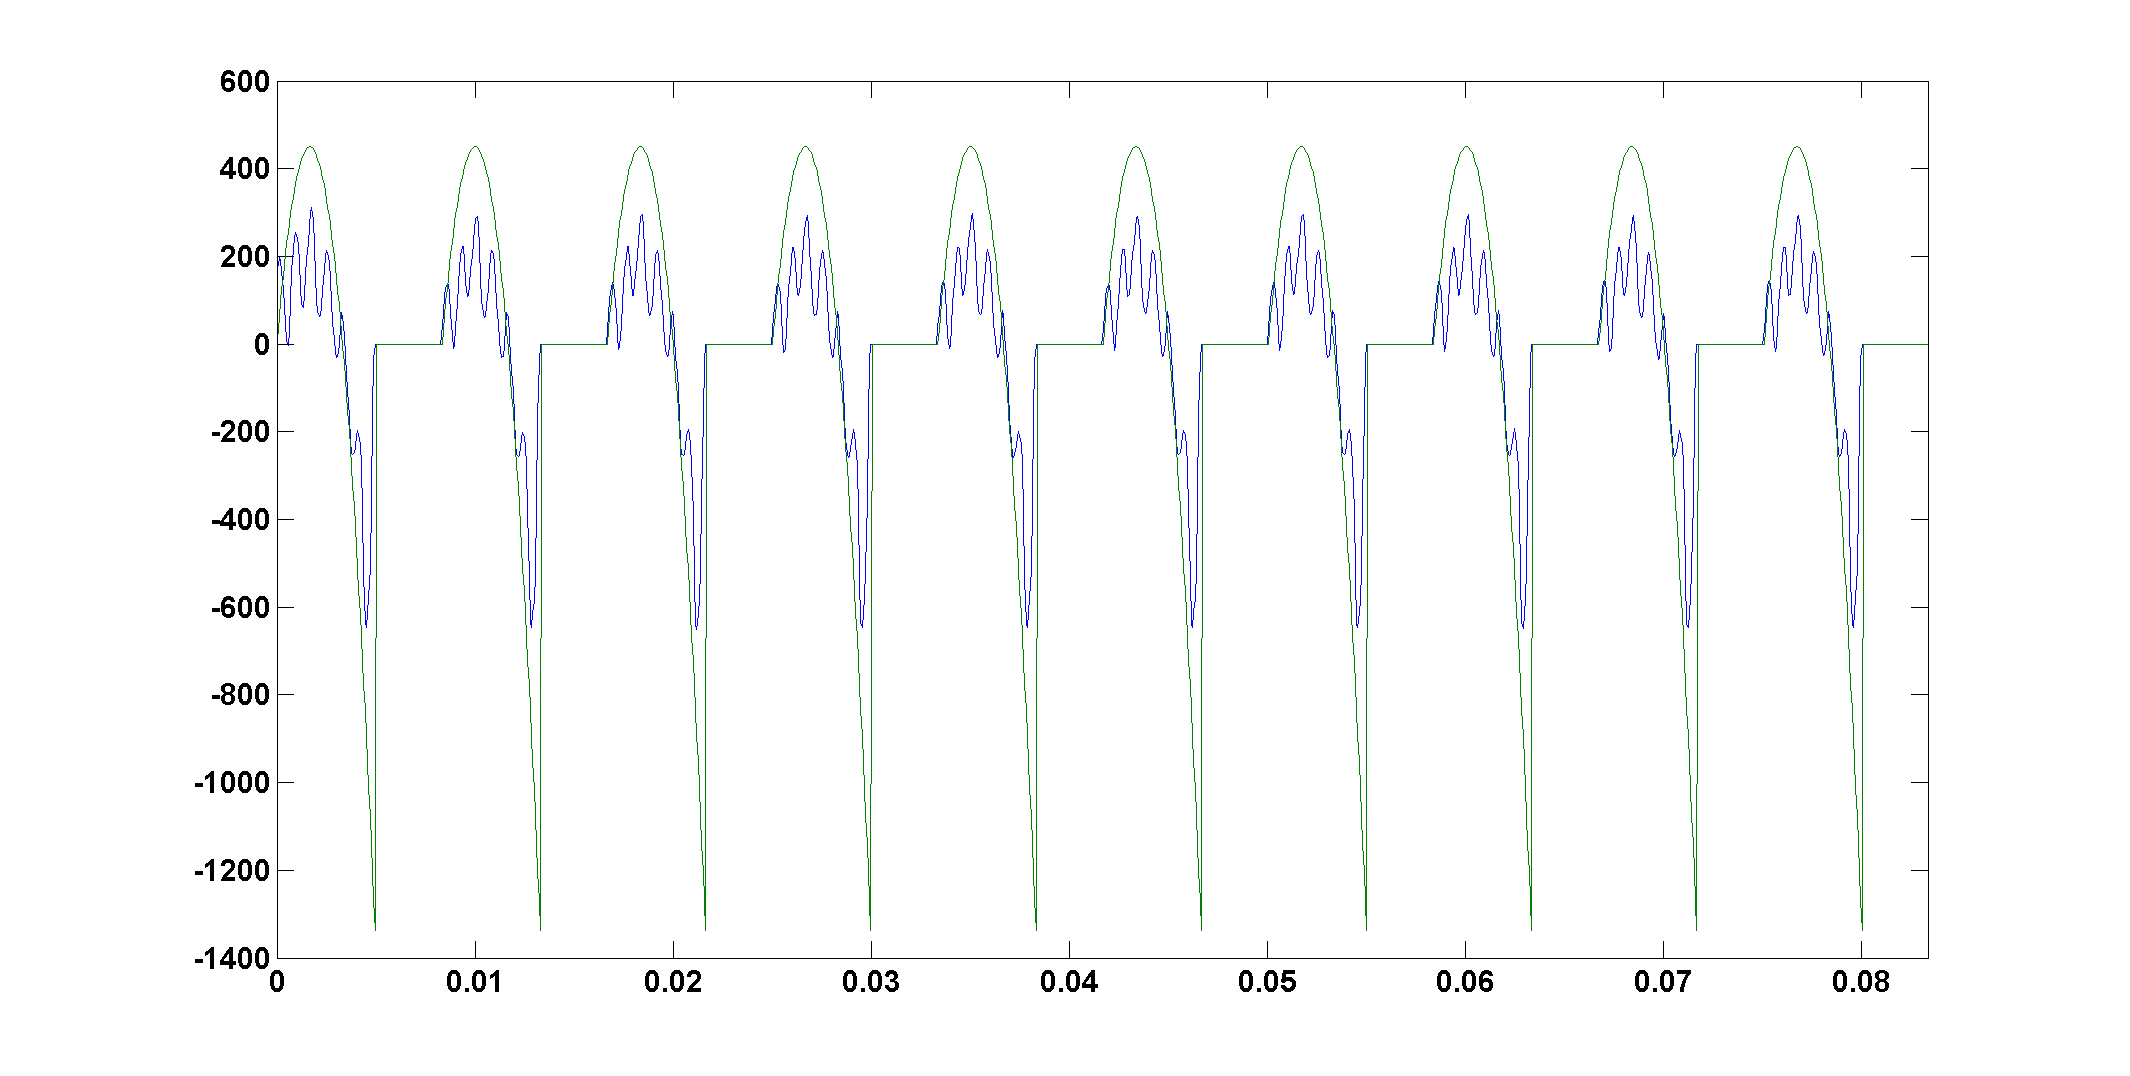
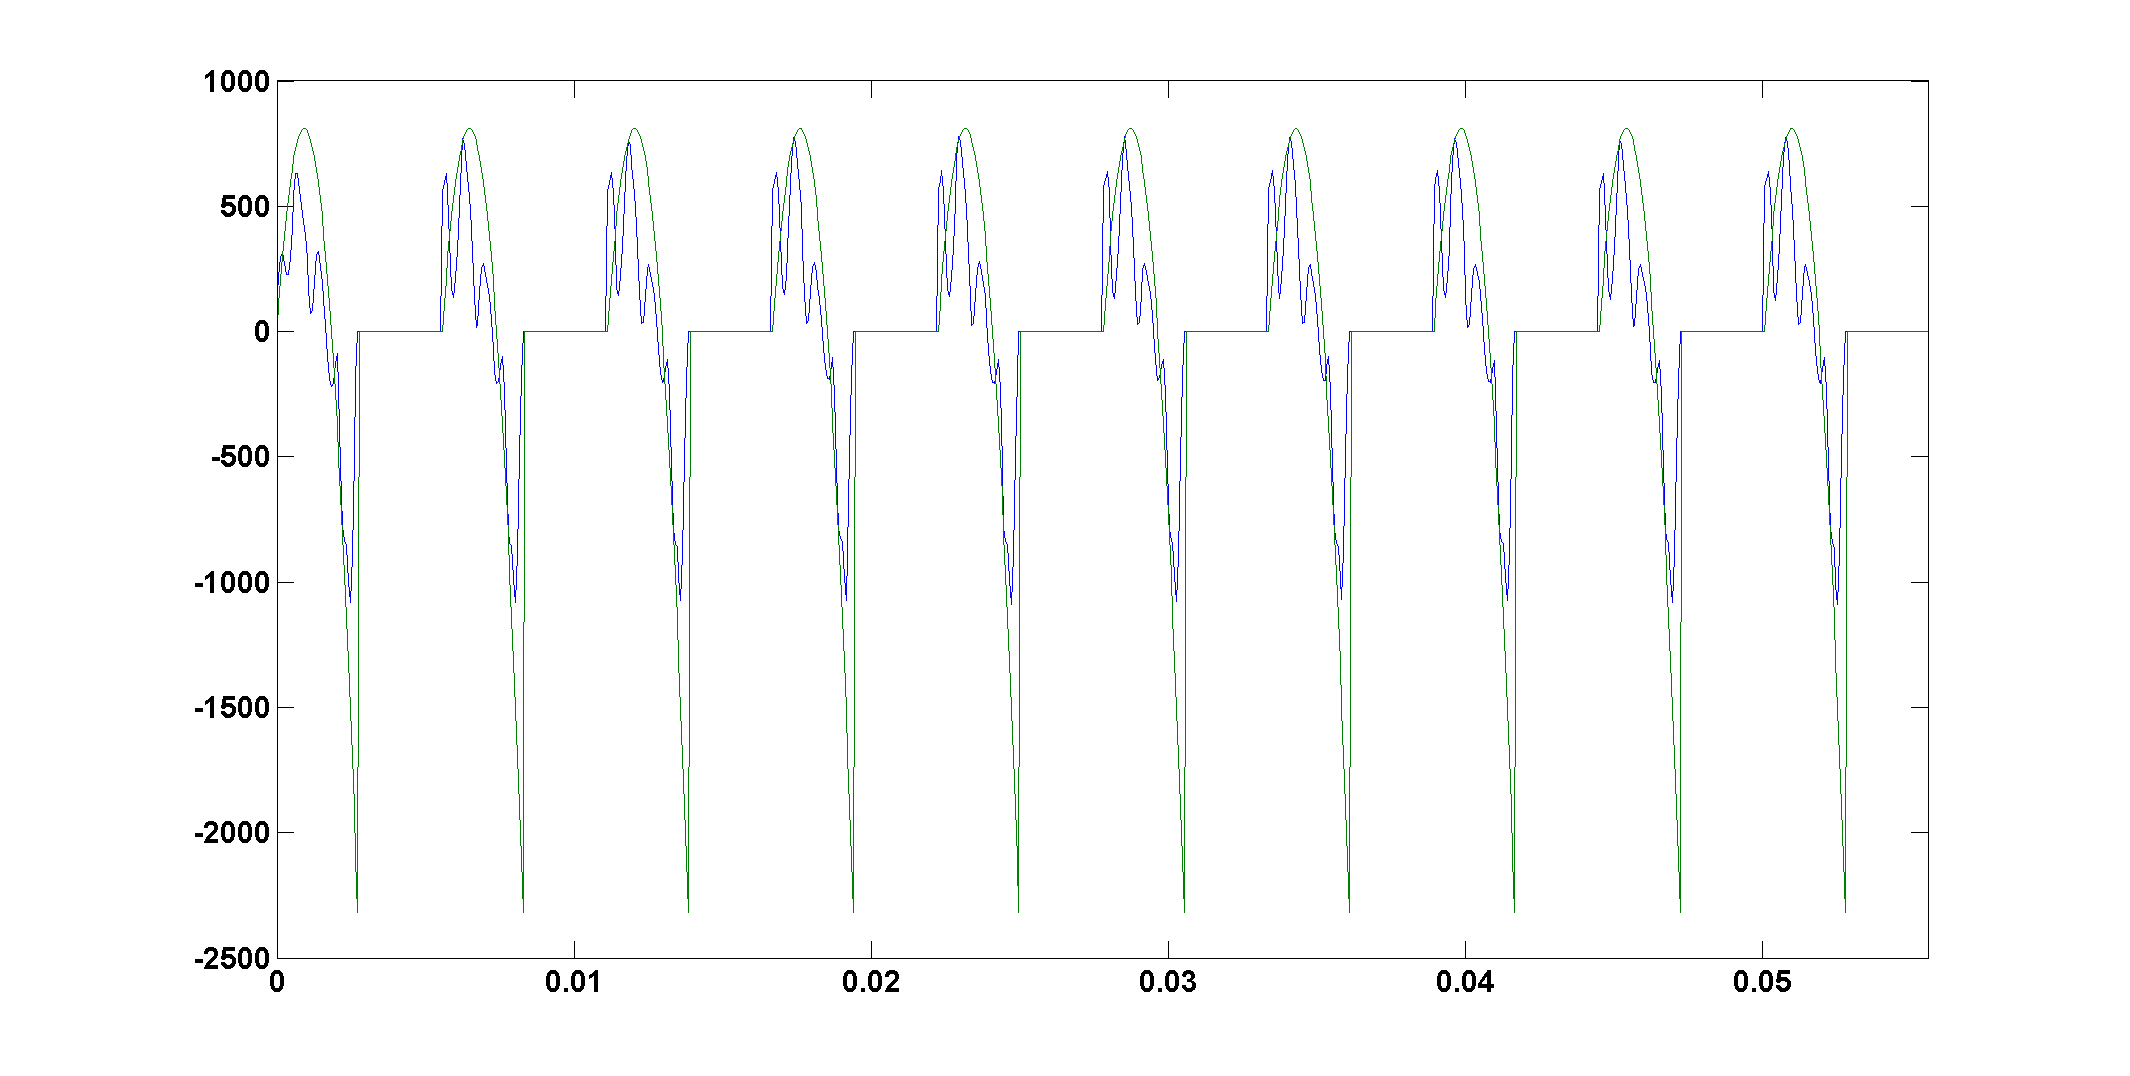
Added some more data and created file to illustrate ill-posedness of naive inversion

diff --git a/matlab/morozov.m b/matlab/morozov.m
@@ -4,14 +4,24 @@ function alpha = morozov(A, m, delta, init_guess)
     d = diag(D);
     mm = U.'*m;
     r = min(size(A));
-    
-    f = @(a) sum((a ./ (d(1:r).^2 + a)).^2 .* mm(1:r).^2) + sum(mm(r:length(m)).^2 - delta.^2);
-    df = @(a) 2.* sum((a ./ (d(1:r).^2 + a)) .* (d(1:r).^2 ./ (d(1:r).^2 + a).^2) .* mm(1:r).^2);
-    
     tol = 1e-6;
-    max_iter = 500;
+    max_iter = 5000;
+    conv = 0;
     
-    alpha = newton(f, df, init_guess, max_iter, tol);
-%     aplha = fzero(f, init_guess); 
+    while ~conv
+        f = @(a) sum((a ./ (d(1:r).^2 + a)).^2 .* mm(1:r).^2) + sum(mm(r:length(m)).^2 - delta.^2);
+        df = @(a) 2.* sum((a ./ (d(1:r).^2 + a)) .* (d(1:r).^2 ./ (d(1:r).^2 + a).^2) .* mm(1:r).^2);
+        
+        [alpha, conv]= newton(f, df, init_guess, max_iter, tol);
+        if ~conv
+            delta = delta * 0.1;
+            alpha = 0;
+        end
+        if delta < 1e-8
+           warning('No alpha value could be obtained with Morozovs principle!');
+           alpha = 1;
+           return; 
+        end
+    end
 
 end 

diff --git a/matlab/newton.m b/matlab/newton.m
@@ -1,8 +1,9 @@
-function x = newton(f, df, init_guess, max_iter, tol)
+function [x, conv] = newton(f, df, init_guess, max_iter, tol)
 
     old_x = init_guess;
     if abs(f(old_x)) < tol
        x = old_x; 
+       conv = 1;
        return;
     end
     
@@ -10,11 +11,20 @@ function x = newton(f, df, init_guess, max_iter, tol)
         new_x = old_x - (f(old_x) / df(old_x));
         if abs(f(new_x)) < tol
             x = new_x;
+            conv = 1;
             return;
         end
         old_x = new_x;
         fprintf('alpha = %-2.4e\n', abs(f(new_x)));
+        
+        if(isinf(old_x) || isnan(old_x))
+           x = 0;
+           conv = 0;
+           warning('Iteration diverged!');
+           return;
+        end
     end
-    error('Iteration did not converge with given maximum iterations!');
+    warning('Iteration did not converge within given maximum iterations!');
+    conv = 0;
 
 end

diff --git a/matlab/run_naive_inversion.m b/matlab/run_naive_inversion.m
@@ -1,0 +1,13 @@
+load data/data m x y yd periods Q Q_rand noise_lvl noise_factor f data_male_filter
+filt = load('data/filter_male_a');
+
+A = create_filter_matrix(filt.alpha, length(m));
+rec = A \ m;
+
+figure(1)
+plot(x, rec)
+hold on
+plot(x, yd, 'g-', 'linewidth', 2);
+xlim([0, x(end)])
+scrsize=get(0,'Screensize');
+set(gcf,'Position',scrsize);

diff --git a/matlab/create_simulated_data.m b/matlab/create_simulated_data.m
@@ -21,7 +21,7 @@ klatt_model = 1;
 
 % parameters for the data
 f = 120;
-Q = .6;
+Q = .5;
 Q_rand = 0.0;
 noise_lvl = .005;
 periods = 10;
